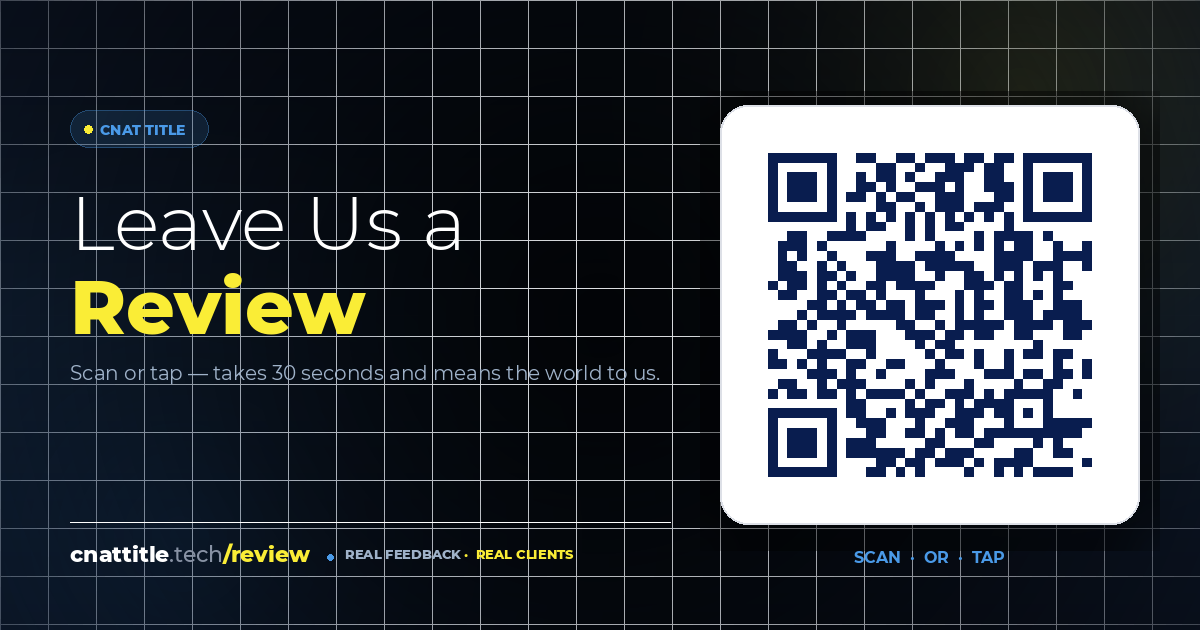
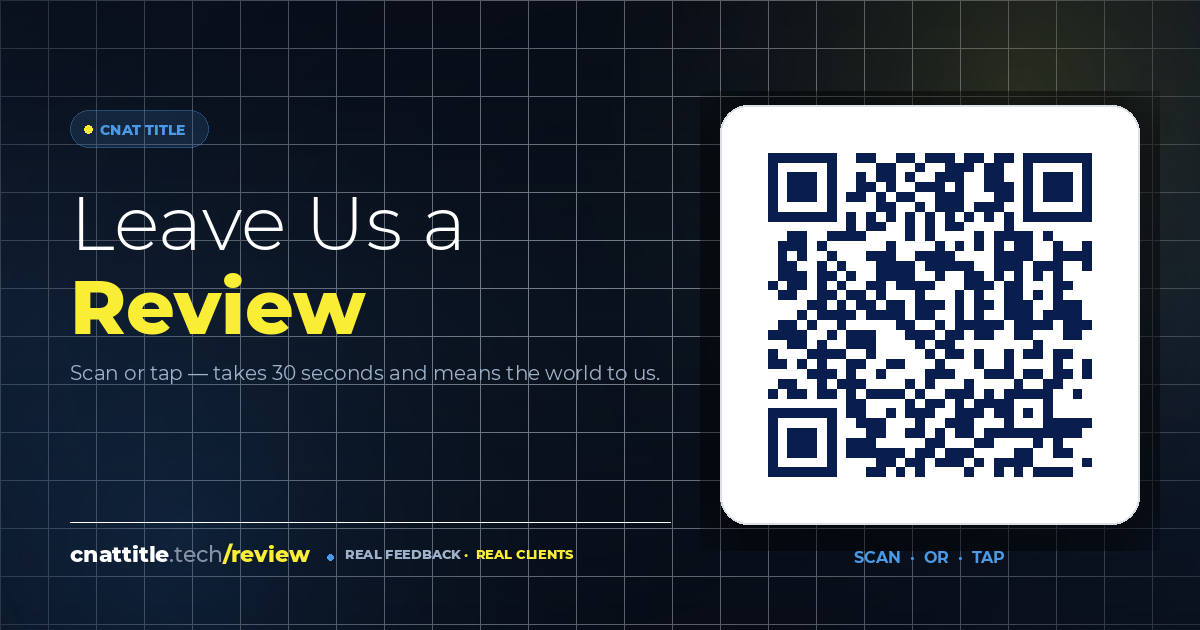
Soften og-review grid overlay
Drop the grid line alpha and the radial-fade peak so the grid sits
further back behind the headline.

https://claude.ai/code/session_01XiHTQAS3RsiCLCULmEePkj

diff --git a/og/generate-og-review.py b/og/generate-og-review.py
@@ -61,7 +61,7 @@ def grid_overlay():
     g = Image.new("RGBA", (W, H), (0, 0, 0, 0))
     d = ImageDraw.Draw(g)
     step = 48
-    line = (255, 255, 255, 6)
+    line = (255, 255, 255, 3)
     for x in range(0, W, step):
         d.line([(x, 0), (x, H)], fill=line)
     for y in range(0, H, step):
@@ -72,7 +72,7 @@ def grid_overlay():
     cx, cy = W // 2, H // 2
     for i in range(60, 0, -1):
         r = max(W, H) * (i / 60) * 0.7
-        v = int(220 * (1 - (i / 60) ** 1.4))
+        v = int(110 * (1 - (i / 60) ** 1.4))
         md.ellipse([cx - r, cy - r, cx + r, cy + r], fill=v)
     g.putalpha(mask)
     return g
